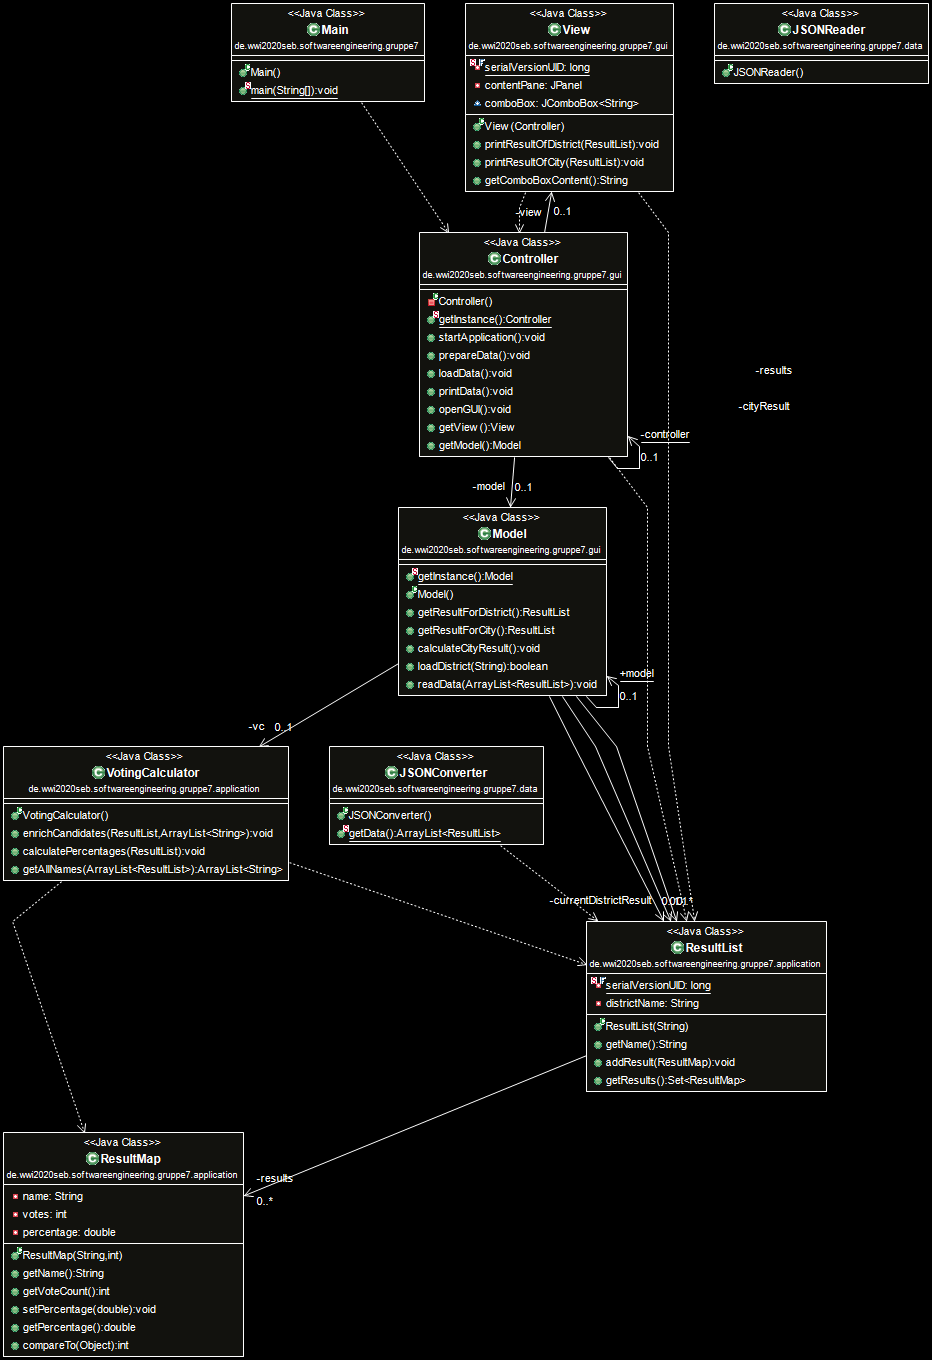
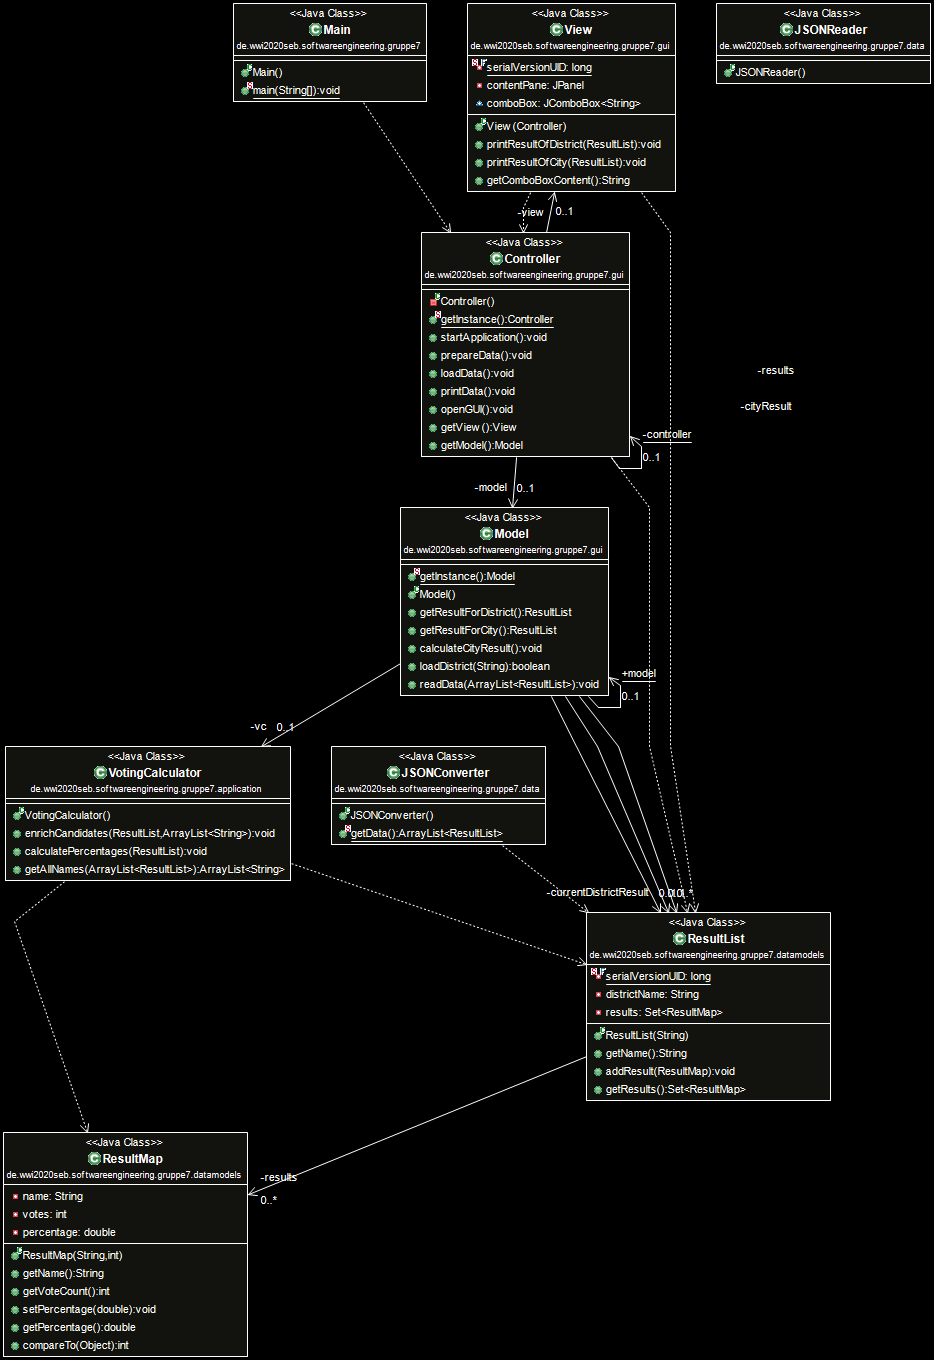
Change directory of data models

diff --git a/Wahlstatistik/src/test/de/wwi2020seb/softwareengineering/gruppe7/application/VotingCalculatorTest.java b/Wahlstatistik/src/test/de/wwi2020seb/softwareengineering/gruppe7/application/VotingCalculatorTest.java
@@ -9,9 +9,9 @@ import org.junit.jupiter.api.BeforeEach;
 import org.junit.jupiter.api.DisplayName;
 import org.junit.jupiter.api.Test;
 
-import de.wwi2020seb.softwareengineering.gruppe7.application.ResultList;
-import de.wwi2020seb.softwareengineering.gruppe7.application.ResultMap;
 import de.wwi2020seb.softwareengineering.gruppe7.application.VotingCalculator;
+import de.wwi2020seb.softwareengineering.gruppe7.datamodels.ResultList;
+import de.wwi2020seb.softwareengineering.gruppe7.datamodels.ResultMap;
 
 class VotingCalculatorTest {
 	

diff --git a/Wahlstatistik/src/de/wwi2020seb/softwareengineering/gruppe7/application/VotingManager.java b/Wahlstatistik/src/de/wwi2020seb/softwareengineering/gruppe7/application/VotingManager.java
@@ -3,11 +3,13 @@ package de.wwi2020seb.softwareengineering.gruppe7.application;
 import java.util.ArrayList;
 
 import de.wwi2020seb.softwareengineering.gruppe7.data.JSONConverter;
+import de.wwi2020seb.softwareengineering.gruppe7.datamodels.ResultList;
 
 public class VotingManager {
 
 	public static ArrayList<ResultList> getData() {
-		return JSONConverter.getData();
+		ArrayList<ResultList> results = JSONConverter.getData();
+		return results;
 	}
 	
 }

diff --git a/Wahlstatistik/src/de/wwi2020seb/softwareengineering/gruppe7/application/VotingCalculator.java b/Wahlstatistik/src/de/wwi2020seb/softwareengineering/gruppe7/application/VotingCalculator.java
@@ -2,6 +2,9 @@ package de.wwi2020seb.softwareengineering.gruppe7.application;
 
 import java.util.ArrayList;
 
+import de.wwi2020seb.softwareengineering.gruppe7.datamodels.ResultList;
+import de.wwi2020seb.softwareengineering.gruppe7.datamodels.ResultMap;
+
 public class VotingCalculator {
 /*
  * Bekommt alle DistrictResultLists und fuegt alle fehlenden Personen hinzu

diff --git a/Wahlstatistik/src/de/wwi2020seb/softwareengineering/gruppe7/gui/Model.java b/Wahlstatistik/src/de/wwi2020seb/softwareengineering/gruppe7/gui/Model.java
@@ -2,8 +2,8 @@ package de.wwi2020seb.softwareengineering.gruppe7.gui;
 
 import java.util.ArrayList;
 
-import de.wwi2020seb.softwareengineering.gruppe7.application.ResultList;
 import de.wwi2020seb.softwareengineering.gruppe7.application.VotingCalculator;
+import de.wwi2020seb.softwareengineering.gruppe7.datamodels.ResultList;
 
 public class Model {
 	

diff --git a/Wahlstatistik/src/de/wwi2020seb/softwareengineering/gruppe7/gui/View.java b/Wahlstatistik/src/de/wwi2020seb/softwareengineering/gruppe7/gui/View.java
@@ -10,7 +10,7 @@ import javax.swing.JPanel;
 import javax.swing.JRadioButton;
 import javax.swing.border.BevelBorder;
 
-import de.wwi2020seb.softwareengineering.gruppe7.application.ResultList;
+import de.wwi2020seb.softwareengineering.gruppe7.datamodels.ResultList;
 
 public class View extends JFrame {
 

diff --git a/Wahlstatistik/src/de/wwi2020seb/softwareengineering/gruppe7/data/JSONConverter.java b/Wahlstatistik/src/de/wwi2020seb/softwareengineering/gruppe7/data/JSONConverter.java
@@ -2,7 +2,7 @@ package de.wwi2020seb.softwareengineering.gruppe7.data;
 
 import java.util.ArrayList;
 
-import de.wwi2020seb.softwareengineering.gruppe7.application.ResultList;
+import de.wwi2020seb.softwareengineering.gruppe7.datamodels.ResultList;
 
 public class JSONConverter {
 

diff --git a/Wahlstatistik/src/de/wwi2020seb/softwareengineering/gruppe7/datamodels/ResultMap.java b/Wahlstatistik/src/de/wwi2020seb/softwareengineering/gruppe7/datamodels/ResultMap.java
@@ -1,4 +1,4 @@
-package de.wwi2020seb.softwareengineering.gruppe7.application;
+package de.wwi2020seb.softwareengineering.gruppe7.datamodels;
 
 @SuppressWarnings("rawtypes")
 public class ResultMap implements Comparable {

diff --git a/Wahlstatistik/src/de/wwi2020seb/softwareengineering/gruppe7/datamodels/ResultList.java b/Wahlstatistik/src/de/wwi2020seb/softwareengineering/gruppe7/datamodels/ResultList.java
@@ -1,4 +1,4 @@
-package de.wwi2020seb.softwareengineering.gruppe7.application;
+package de.wwi2020seb.softwareengineering.gruppe7.datamodels;
 
 import java.io.Serializable;
 import java.util.Set;
